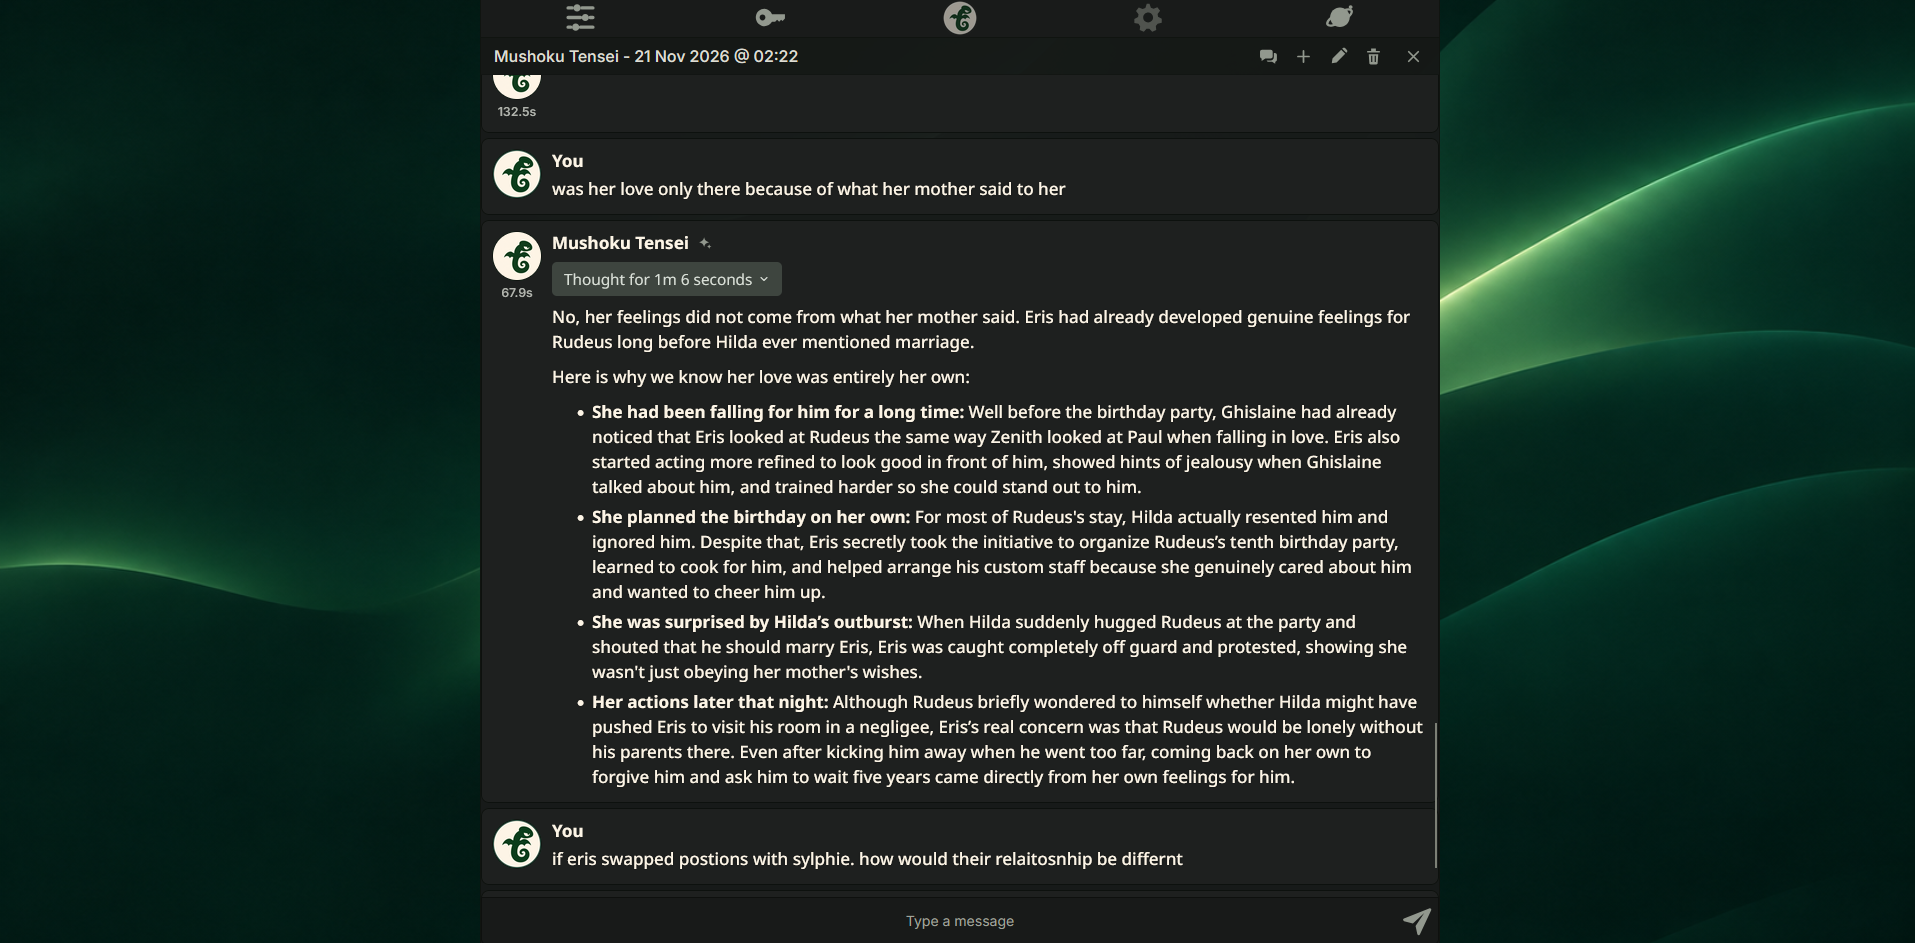
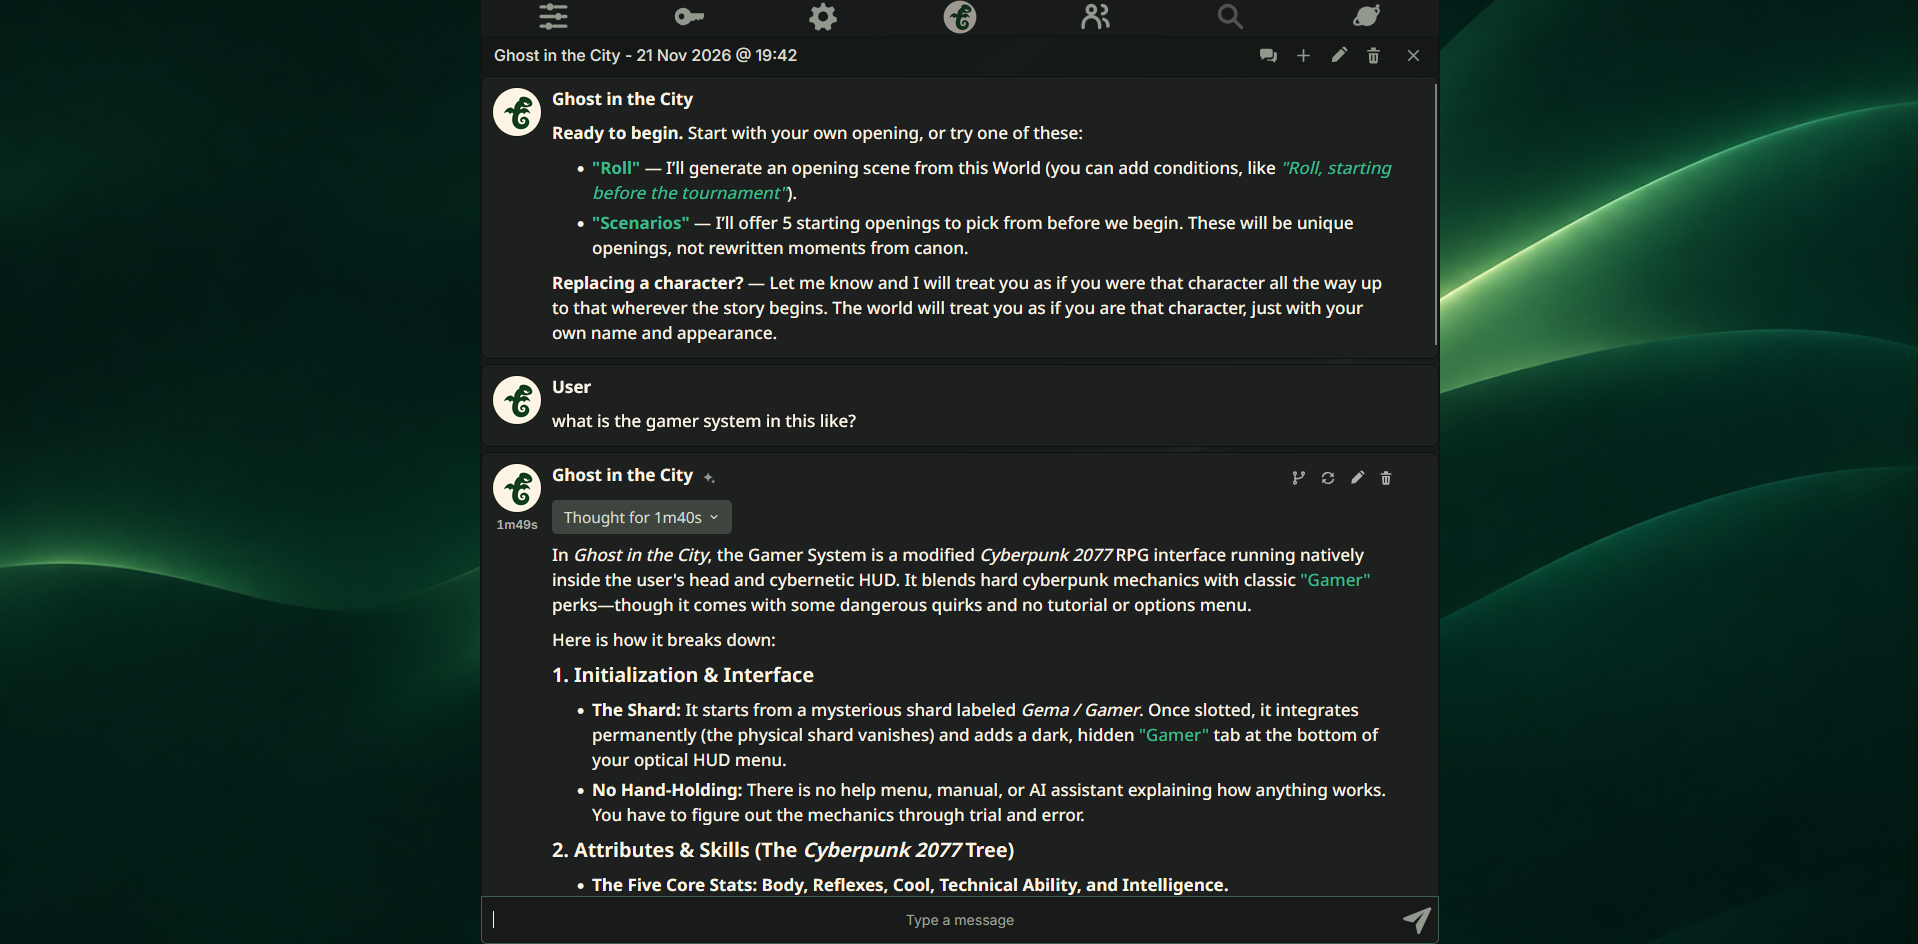
docs: update first-run steps and README screenshots

diff --git a/README.md b/README.md
@@ -4,9 +4,9 @@
 
 **TaleSide** is an app in development for turning source material into persistent, interactive worlds.
 
-> **Status:** Early development.
->
-> Create Worlds from TXT, Markdown, HTML, or EPUB books. Start or resume Tales with replies grounded in those books, and search saved Tales by title or message.
+**Status:** Early development.
+
+Create Worlds from TXT, Markdown, HTML, or EPUB books and play Tales with replies grounded in those books. Branch a Tale to explore a different direction, play as a custom Persona, or find a saved Tale by title or message.
 
 ## Vision
 
@@ -24,7 +24,7 @@ And none of this is staged. Harry, Umbridge, your missing friend, Ruijerd, Paul:
 
 | Home and Recent Tales | A Tale in progress |
 | --- | --- |
-| ![Recent Tales on the TaleSide home screen](./docs/screenshots/recent-tales.png) | ![A Tale showing a reply and its thinking summary](./docs/screenshots/tale-chat.png) |
+| ![Recent Tales on the TaleSide home screen](./docs/screenshots/recent-tales.png) | ![A Tale showing its opening, an AI reply, and the reply time](./docs/screenshots/tale-chat.png) |
 
 ![The former Demo Worlds shelf](./docs/screenshots/homepage.png)
 

diff --git a/docs/quickstart.md b/docs/quickstart.md
@@ -10,5 +10,5 @@
 1. Get a Gemini API key from [Google AI Studio](https://aistudio.google.com/apikey). In TaleSide, open **API Keys**, choose **Add Key**, then name and save the key.
 2. Open **Worlds**, choose **New World** with the **+** button, and enter a name. Use the **+** beside **Books** to add one small `.txt` book.
 3. In **Indexing**, pick your key in **Embedding key**, then click the **Create World** checkmark.
-4. In **Tale Settings**, select the same key in **Chat key**.
-5. Close Tale Settings. When the first passage is indexed, type a message and send it.
+4. Open **Tale Settings**. Under **Model and reasoning**, select the same key in **Chat key**.
+5. Close Tale Settings. Once the first passage is indexed, send a message and wait for Gemini to reply. The World’s **First Message** is the opening you see before you send anything.
